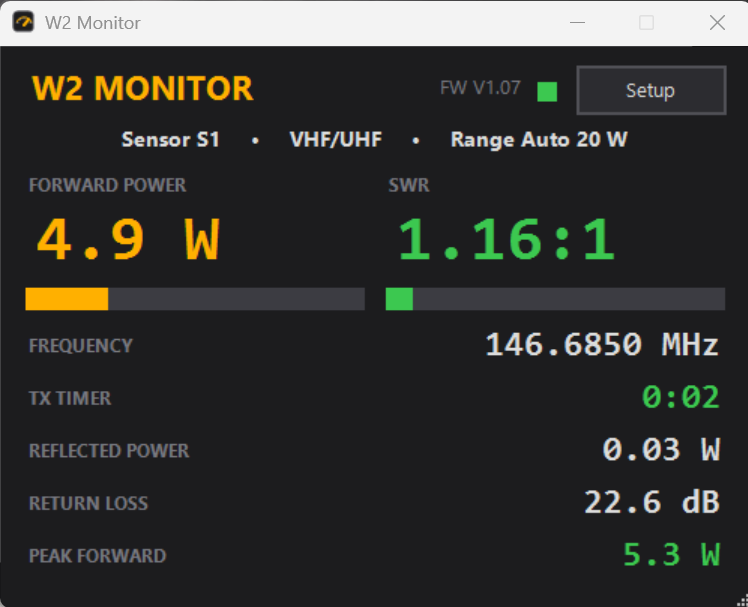
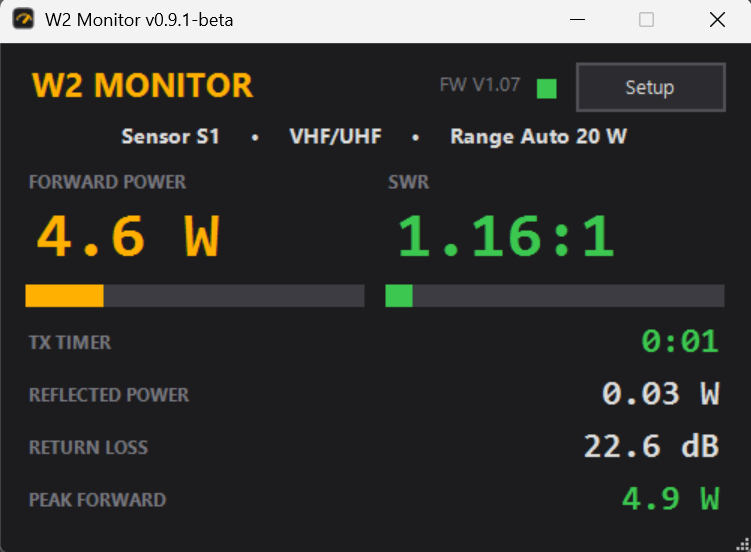
Add refreshed main + Setup screenshots; drop stale overview image

diff --git a/README.md b/README.md
@@ -36,9 +36,9 @@ VHF/UHF‑and‑up world where the W2 lives.
 
 ## Screenshots
 
-Main readout and Setup:
+The Setup window — meters, W2 controls, display toggles, and TX timeout:
 
-![W2 Monitor overview](docs/screenshot-overview.png)
+![W2 Monitor Setup window](docs/screenshot-setup.png)
 
 ## Requirements
 